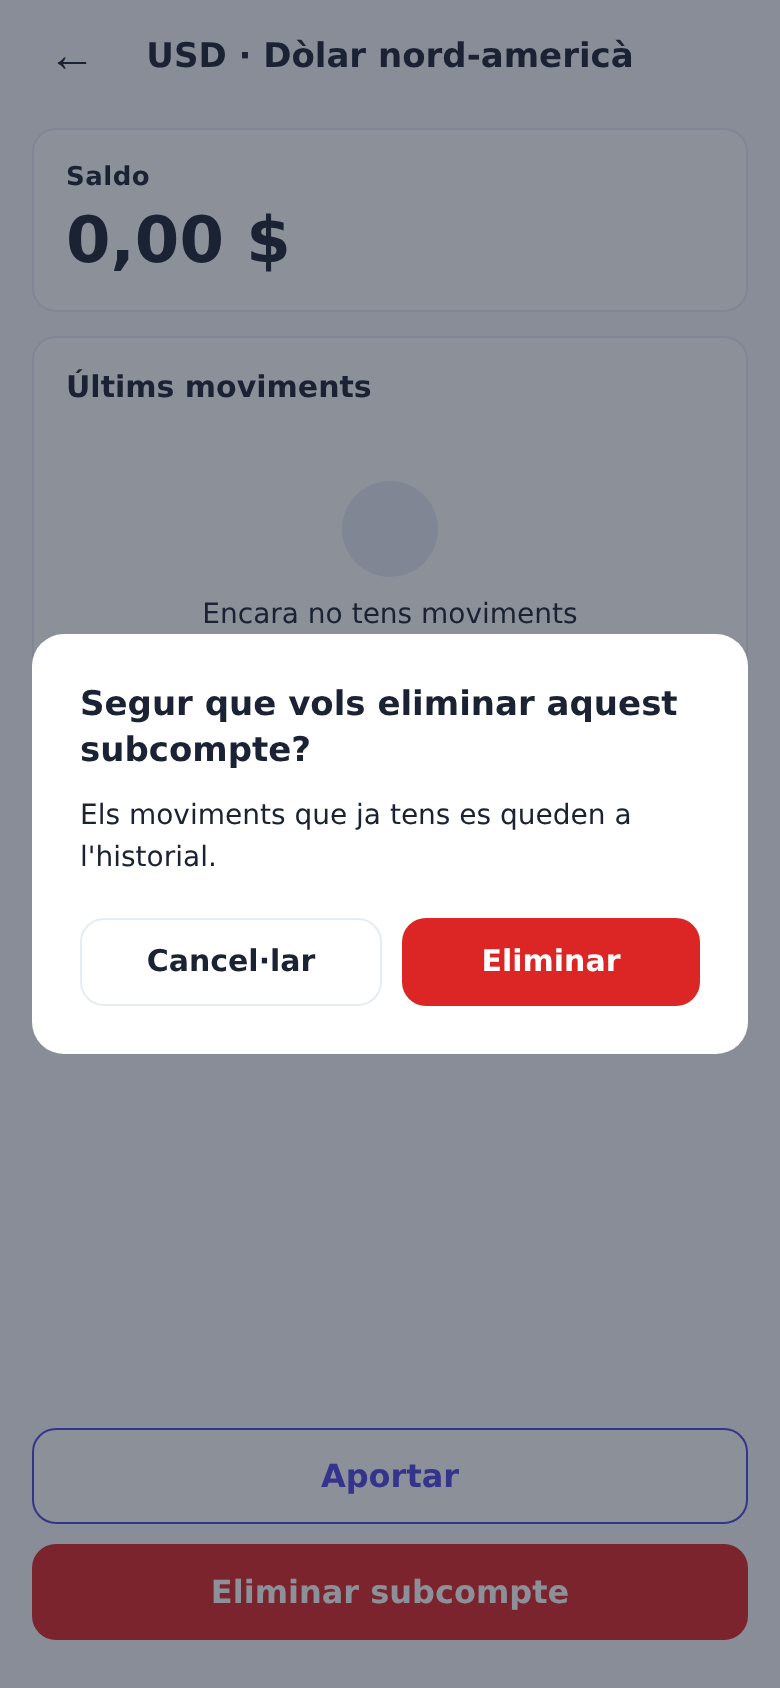
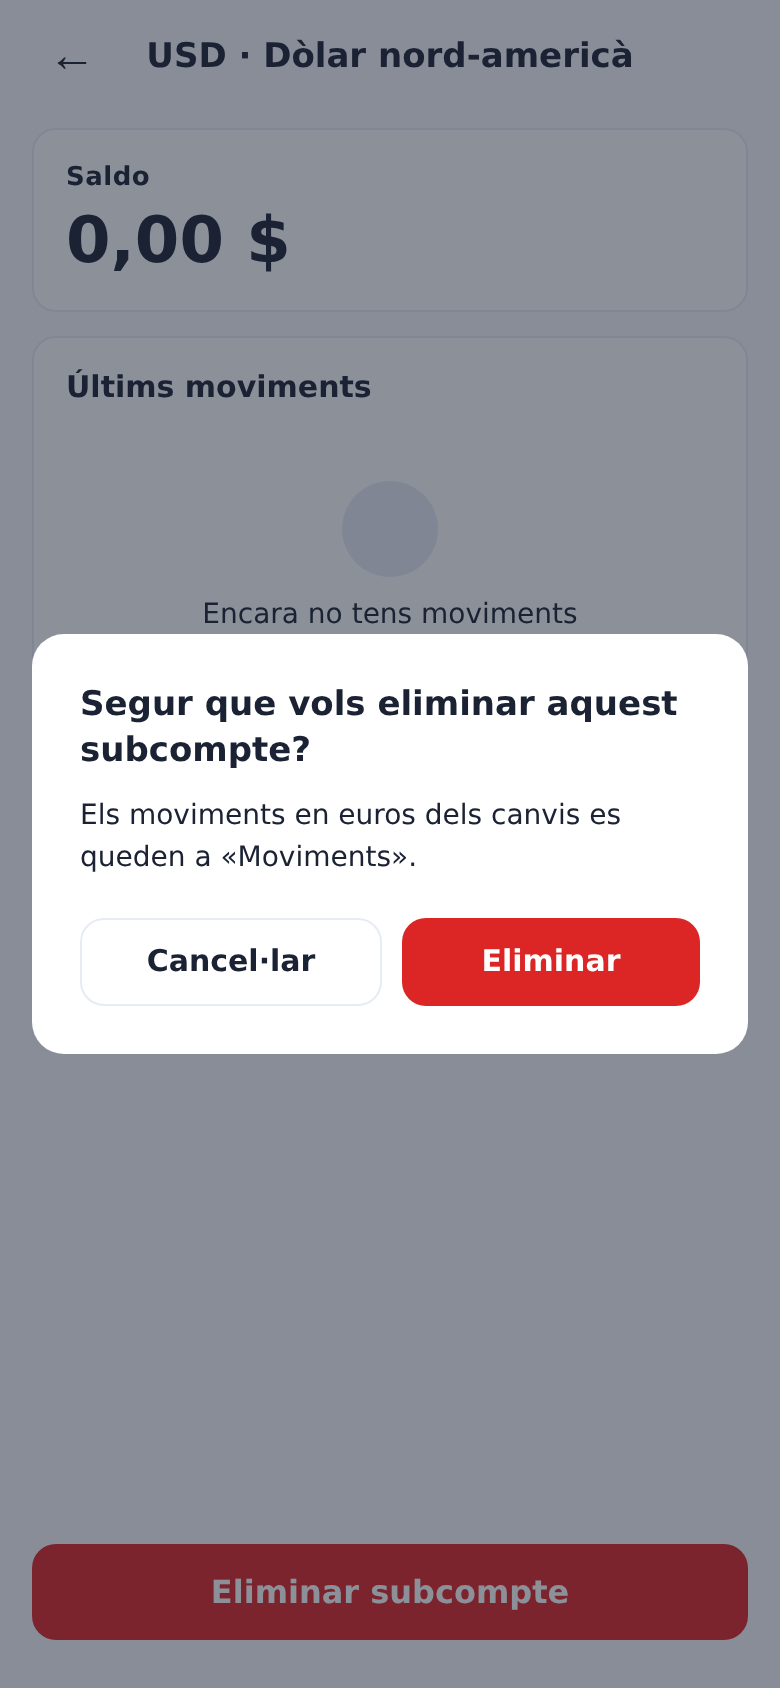
docs(multidivisa): keep only euro movements and drop Aportar (D5) US-26
PO decisions: the euro movement of an exchange stays in «Moviments»/Inici while the currency movement only lives in the sub-account history (P60/P61); no «Aportar» button this sprint (D5) - emptying goes through «Canviar» (US-27). Mockups re-rendered.

Changed region(s): [[0.3077, 0.4621, 0.8, 0.5237], [0.4, 0.8626, 0.5846, 0.8934], [0.0923, 0.4929, 0.2769, 0.5237]]

diff --git a/docs/us/_mockup/src/US-26-confirmar-eliminacio.html b/docs/us/_mockup/src/US-26-confirmar-eliminacio.html
@@ -206,14 +206,13 @@
         </div>
       </section>
       <div class="actions">
-        <button type="button" class="btn btn-ghost">Aportar</button>
         <button type="button" class="btn btn-danger">Eliminar subcompte</button>
       </div>
     </main>
     <div class="overlay">
       <div class="dialog" role="dialog" aria-modal="true" aria-labelledby="dialog-title">
         <p class="dialog-title" id="dialog-title">Segur que vols eliminar aquest subcompte?</p>
-        <p class="dialog-text">Els moviments que ja tens es queden a l'historial.</p>
+        <p class="dialog-text">Els moviments en euros dels canvis es queden a «Moviments».</p>
         <div class="dialog-actions">
           <button type="button" class="btn btn-outline">Cancel·lar</button>
           <button type="button" class="btn btn-danger">Eliminar</button>

diff --git a/docs/us/_mockup/src/US-26-subcompte-esbuida-via-canvi.html b/docs/us/_mockup/src/US-26-subcompte-esbuida-via-canvi.html
@@ -182,7 +182,7 @@
   <!--
     US-26 · Buidar un subcompte en divisa per poder-lo eliminar (390×844, PNG 780×1688).
 
-    «Aportar» només hi afegeix diners; per treure'ls, l'única via és «Canviar» (US-27).
+    El subcompte no té «Aportar» (decisió del PO): l'única via per treure'n saldo és «Canviar» (US-27).
     Per eliminar el USD, primer se'n buida el saldo canviant-lo a euros: 312,86 $ +
     4,69 $ de comissió = 317,55 $, que és tot el saldo. El subcompte queda a 0,00 $ i
     la finestra 2 de l'eliminació ja s'obre.

diff --git a/docs/us/_mockup/src/US-26-avis-saldo.html b/docs/us/_mockup/src/US-26-avis-saldo.html
@@ -195,7 +195,6 @@
         </div>
       </section>
       <div class="actions">
-        <button type="button" class="btn-ghost">Aportar</button>
         <button type="button" class="btn-danger">Eliminar subcompte</button>
       </div>
     </main>

diff --git a/docs/us/_mockup/src/US-26-detall-subcompte.html b/docs/us/_mockup/src/US-26-detall-subcompte.html
@@ -161,7 +161,6 @@
         </div>
       </section>
       <div class="actions">
-        <button type="button" class="btn-ghost">Aportar</button>
         <button type="button" class="btn-danger">Eliminar subcompte</button>
       </div>
     </main>

diff --git a/docs/us/US-26.md b/docs/us/US-26.md
@@ -16,7 +16,7 @@ Casos especials:
 - El subcompte no té botó «Aportar» en aquest sprint (decisió del PO): el saldo només s'omple amb «Canviar» (US-27)
 - Per buidar-lo abans d'eliminar-lo es fa un canvi a l'EUR: 312,86 $ més 4,69 $ de comissió són els 317,55 $ del saldo i el subcompte queda a 0,00 $
 - Amb saldo 0, la finestra 2 pregunta «Segur que vols eliminar aquest subcompte?» amb «Cancel·lar» i «Eliminar»; després del tic «Subcompte eliminat» l'app torna sola a Inici
-- L'eliminació esborra només el subcompte: els moviments històrics es queden a l'historial amb el seu import i el seu símbol, i la divisa torna a `owned: false` a «Afegir divisa»
+- L'eliminació esborra només el subcompte: dels canvis, els moviments **en euros** es queden a «Moviments»/Inici amb el seu import (regles P60/P61 (contracte de subcomptes, a numerar a T25.1) — el moviment en divisa només viu a l'historial del subcompte i desapareix amb ell), i la divisa torna a `owned: false` a «Afegir divisa»
 - S'elimina amb `POST /api/subaccounts/{subaccountId}/delete` perquè `apiClient` i el CORS només permeten GET i POST; un `404 SUBACCOUNT_NOT_FOUND` alerta i torna a `/divises`
 
 Estimació: SP 2 · VP 4 · Prioritat Mitjana
